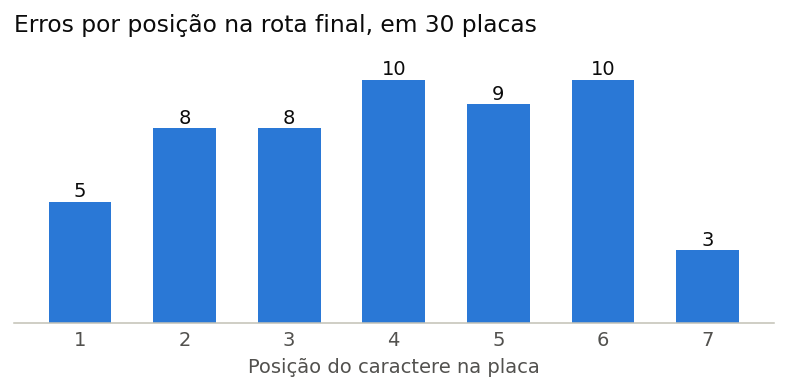
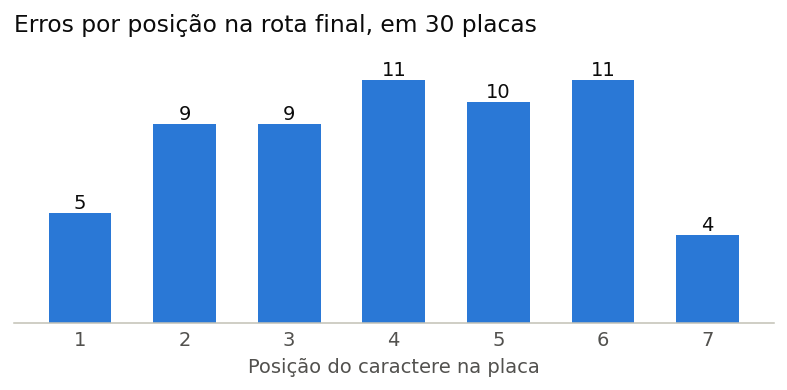
Conta como erro as casas que faltam em leituras incompletas
erros_por_posicao comparava com zip e parava no fim da leitura: a placa 22,
lida como "1", contava erro so na posicao 1. A soma dava 53 erros, quando a
acuracia por caractere de 0,719 implica 59. A acuracia nao muda; a tabela e a
figura de erros por posicao foram regeradas por scripts/leitor/avaliar.py.

diff --git a/src/metricas.py b/src/metricas.py
@@ -67,18 +67,14 @@ def erros_por_posicao(reais: Sequence[str], previstas: Sequence[str],
                       n_caracteres: int = 7):
     """Conta quantos erros ocorreram em cada uma das posições da placa.
 
-    Placa não lida (string vazia) conta como erro em TODAS as posições —
-    mesmo critério de `acuracia_caractere`. Antes esta função pulava as
-    predições vazias, então as duas métricas discordavam sobre o mesmo caso
-    e iam parar juntas no mesmo relatório.
+    Casa sem leitura conta como erro — placa não lida (string vazia) erra em
+    TODAS as posições, e uma leitura incompleta erra nas casas que faltam.
+    É o mesmo critério de `acuracia_caractere`, então a soma desta contagem
+    bate com (1 - acurácia por caractere) x total de caracteres.
     """
     contagem = [0] * n_caracteres
     for real, prev in zip(reais, previstas):
-        if not prev:
-            for i in range(min(n_caracteres, len(real))):
-                contagem[i] += 1
-            continue
-        for i, (a, b) in enumerate(zip(real, prev)):
-            if i < n_caracteres and a != b:
+        for i in range(min(n_caracteres, len(real))):
+            if i >= len(prev) or real[i] != prev[i]:
                 contagem[i] += 1
     return contagem

diff --git a/tests/test_basico.py b/tests/test_basico.py
@@ -96,3 +96,14 @@ def test_erros_por_posicao_conta_placa_nao_lida_em_todas_as_posicoes():
     # métricas discordavam sobre o mesmo caso
     assert erros_por_posicao(["ABC1D23"], [""]) == [1, 1, 1, 1, 1, 1, 1]
     assert acuracia_caractere(["ABC1D23"], [""]) == 0.0
+
+
+def test_erros_por_posicao_conta_casas_faltando_em_leitura_incompleta():
+    # Leitura com 1 de 7 caracteres: as 6 casas sem leitura são erros, como em
+    # acuracia_caractere. Antes só a primeira posição entrava na contagem.
+    assert erros_por_posicao(["JRV2727"], ["1"]) == [1, 1, 1, 1, 1, 1, 1]
+    assert erros_por_posicao(["ABC1D23"], ["ABC"]) == [0, 0, 0, 1, 1, 1, 1]
+    # a soma dos erros por posição tem de bater com a acurácia por caractere
+    reais, previstas = ["ABC1D23", "JRV2727"], ["ABC1D20", "1"]
+    total_erros = sum(erros_por_posicao(reais, previstas))
+    assert total_erros == round((1 - acuracia_caractere(reais, previstas)) * 14)
